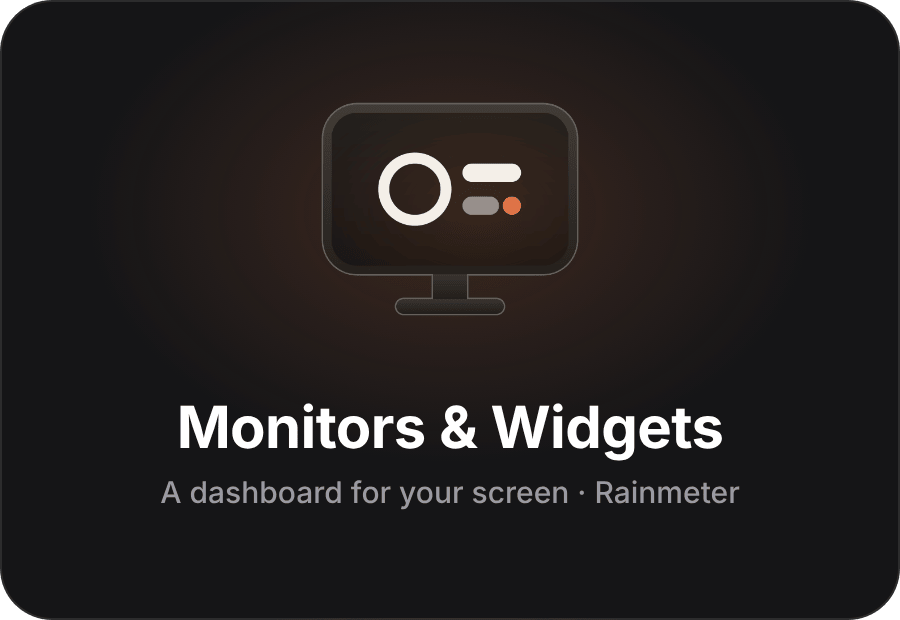
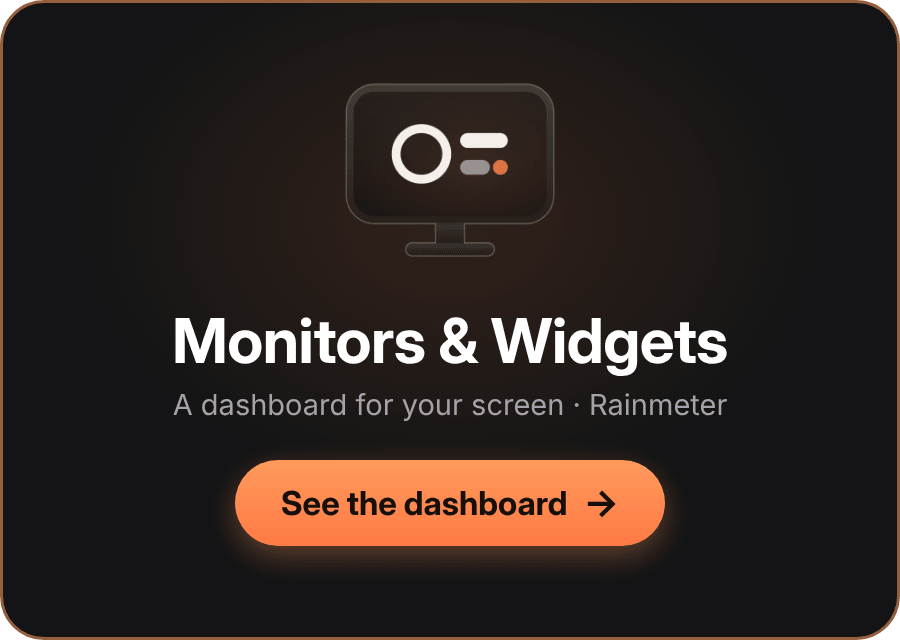
README

Changed region(s): [[0.1867, 0.429, 0.8089, 0.8887], [0.0, 0.0, 1.0, 1.0], [0.3422, 0.1226, 0.6533, 0.429]]

diff --git a/README.md b/README.md
@@ -2,13 +2,16 @@
 
 <p align="center"><sub><b>HuffDee</b> is how you say HFDE: my real name, reordered until it turned into this nickname.</sub></p>
 
-<p align="center"><a href="#overlays"><b>Ring Pill Overlays</b></a> &nbsp;·&nbsp; <a href="#monitors-and-widgets"><b>Monitors & Widgets</b></a></p>
-
 <p align="center">⭐ <b>Thank you for 100 stars!</b> Every one of them keeps me making these. 💜</p>
 
 Hey! 👋  I designed and made Clean, Apple-style performance stats for PC: overlays for **RivaTuner Statistics Server (RTSS)** that show while you play, and **Monitors & Widgets** for your second screen, case screen or desktop. Free, for screens from 1080p up to 7680×2160, gaming laptops, TVs and case screens.
 
-<h3 align="center">Are you here for the overlays, or for the dashboard?</h3>
+<p align="center">
+<picture>
+<source media="(prefers-color-scheme: dark)" srcset="previews/brand/choose-title-dark.png">
+<img src="previews/brand/choose-title-light.png" width="620" alt="Are you here for the overlays, or for the dashboard?">
+</picture>
+</p>
 
 <p align="center">
 <a href="#overlays"><img src="previews/brand/choose-overlays.png" width="40%" alt="Ring Pill Overlays: stats inside your games, for RTSS"></a>
